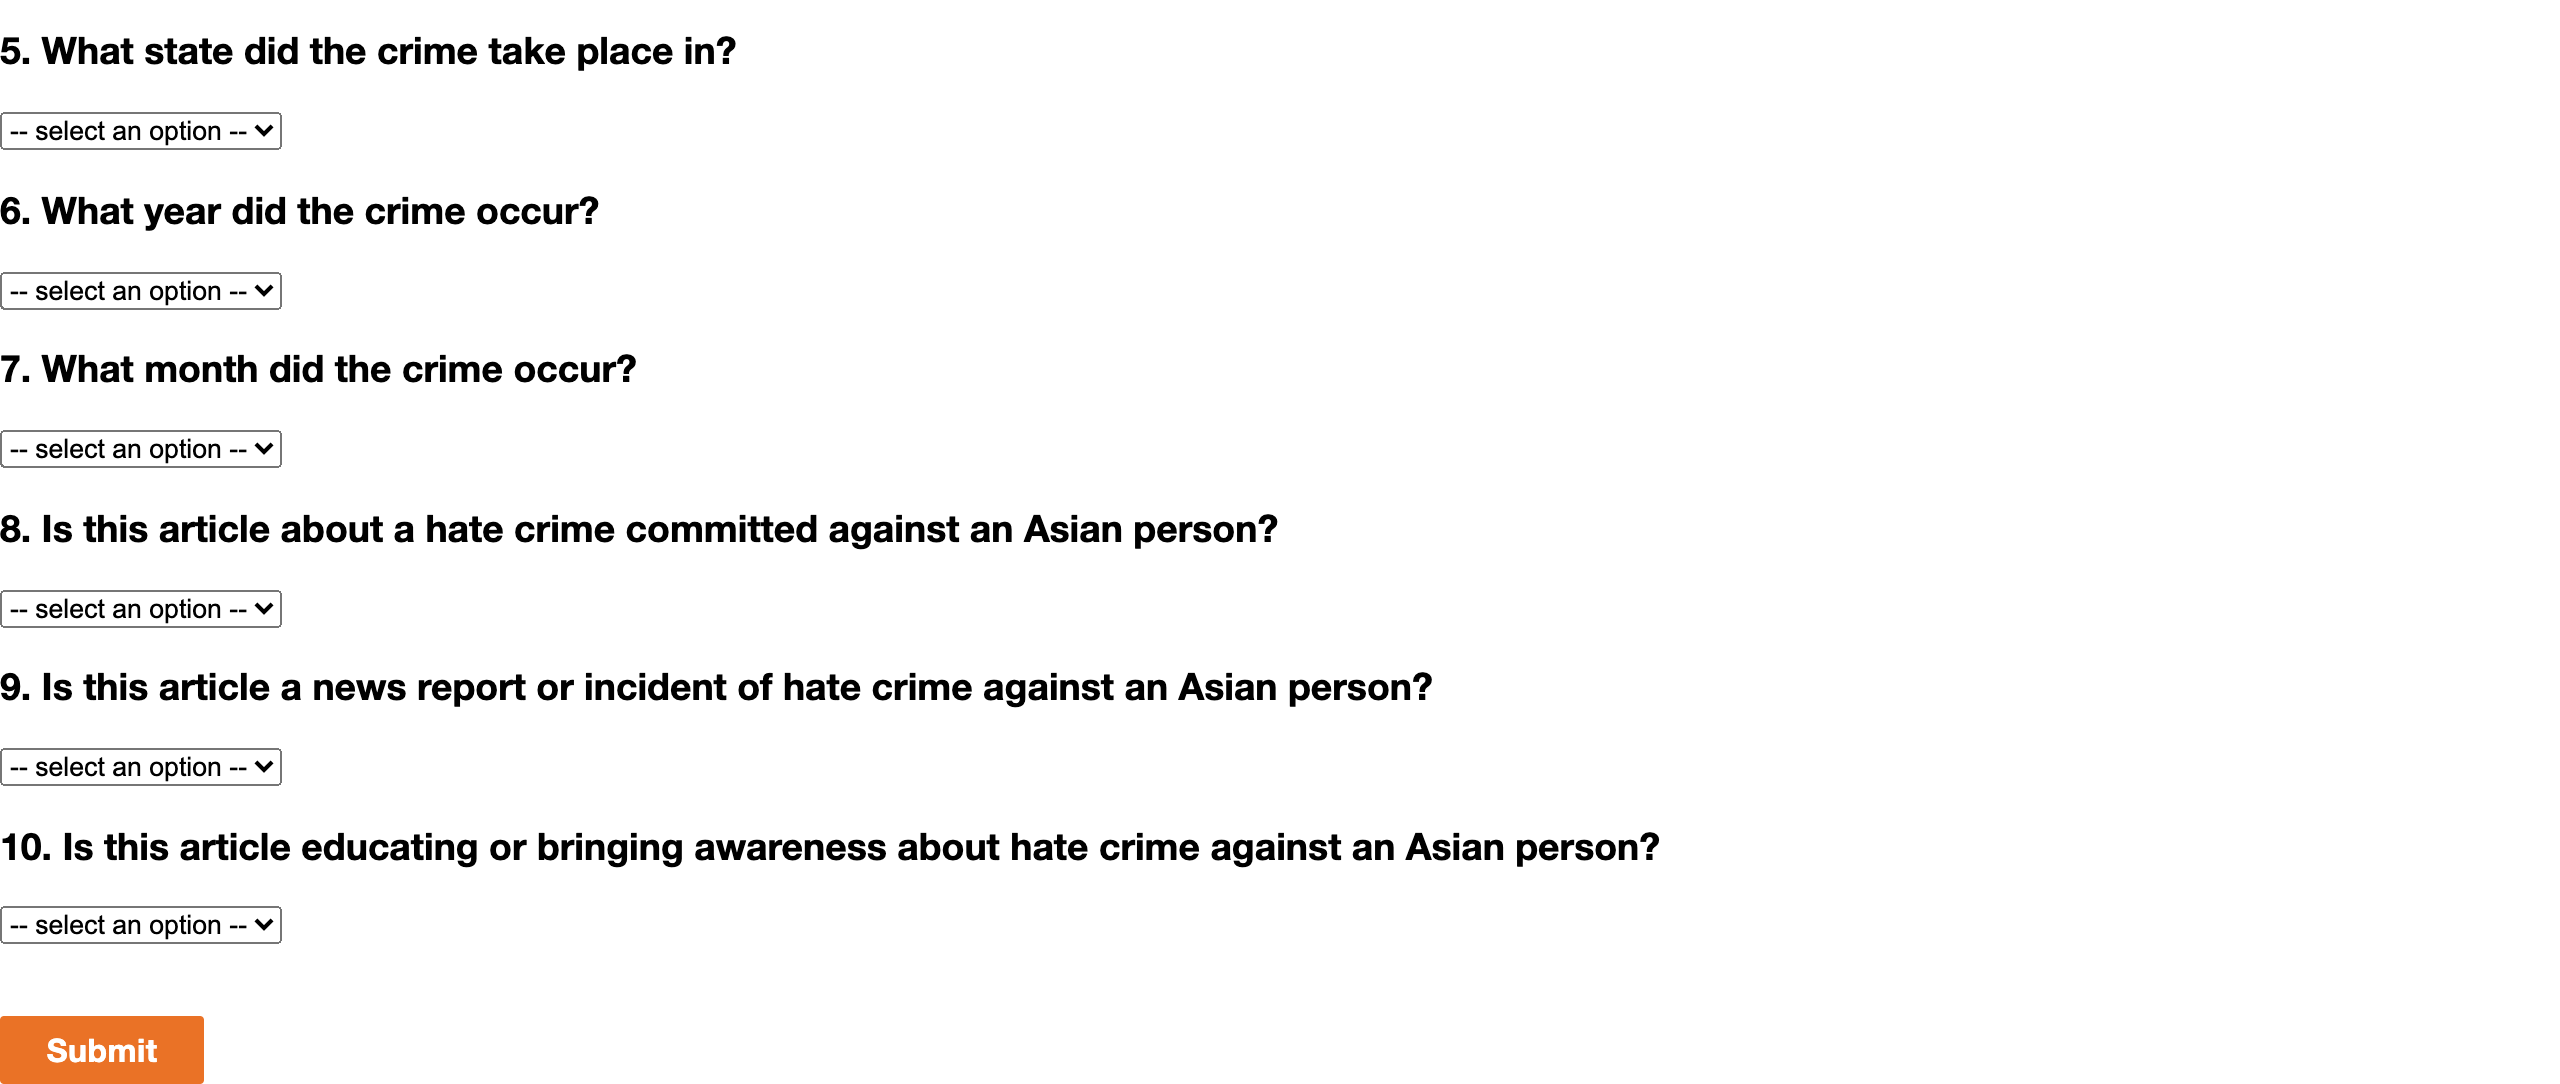
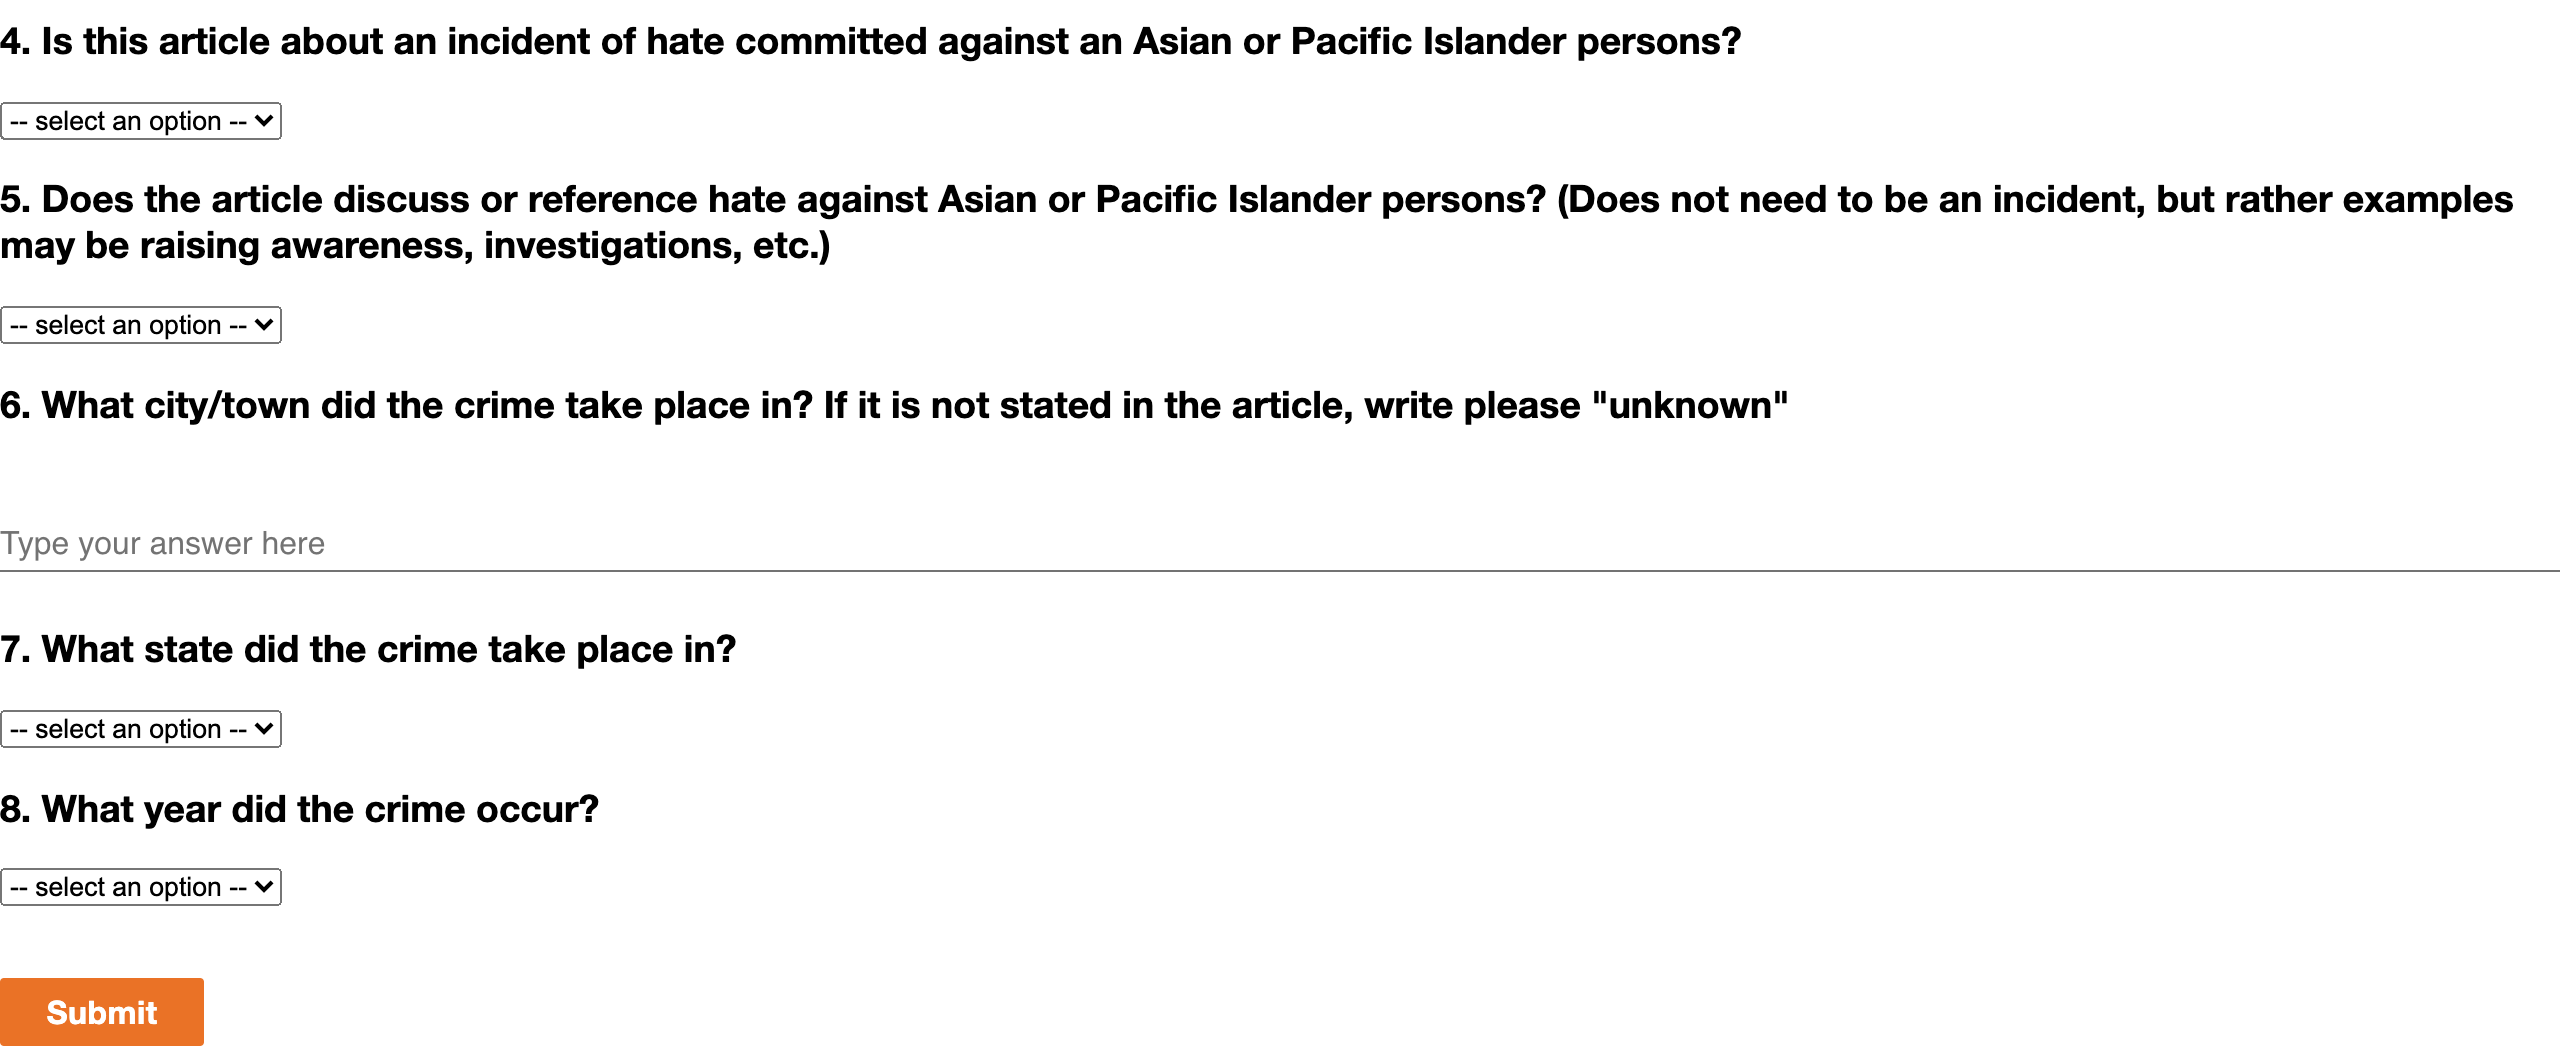
Updated questions and instructions for HIT

diff --git a/HIT designs/HITDesign.html b/HIT designs/HITDesign.html
@@ -16,12 +16,15 @@
         <a href="${url}" target="_blank">${url}</a>
 
         <br><br><br><br>
-        We define Asian and Pacific Islander as a person having origins in any of the original peoples of the Far East, Southeast Asia, the Indian subcontinent, or Pacific Islands including, for example, Cambodia, China, India, Japan, Korea, Malaysia, Pakistan, the Philippine Islands, Thailand, Vietnam, Hawaii, Guam, and Samoa,
+        Please keep the following definitions in mind when answering the questions below. 
         <br><br>
-        Please reference this website if you are still unsure about any of the racial categories:
-        <a href="https://www.census.gov/topics/population/race/about.html" target="_blank">https://www.census.gov/topics/population/race/about.html</a>
+        RACE: We define <b>Asian and Pacific Islander</b> as a person having origins in any of the original peoples of Far East, Southeast Asia, the Indian subcontinent, or Pacific Islands including, for example, Cambodia, China, India, Japan, Korea, Malaysia, Pakistan, the Philippine Islands, Thailand, Vietnam, Hawaii, Guam, and Samoa. Alaskan natives and other idigenous groups in North America are not included.
         <br><br>
-        For our purposes, we use the federal definition of a hate crime. A hate crime include crimes committed based on the victim’s perceived or actual race, color, religion, national origin, sexual orientation, gender, gender identity, or disability. A hate crime must involve a “crime” and it is often a violent crime, such as assault, murder, arson, vandalism, or threats to commit such crimes.
+        Please reference this website if you are still unsure about any of the racial categories. <a href="https://www.census.gov/topics/population/race/about.html" target="_blank">https://www.census.gov/topics/population/race/about.html</a>
+        <br><br>
+        INCIDENT OF HATE: For our purposes, we are defining an incident of hate as any bias, discriminatory or racist action(s) both verbal or physical taken against a person because of their perceived race. An incident of hate is definitely any hate crime but all incidents of hate are not necessarily hate crimes. 
+        <br><br>
+        We use the federal definition of a hate crime. A hate crime includes crimes committed based on the victim’s perceived or actual race, color, religion, national origin, sexual orientation, gender, gender identity, or disability. A hate crime must involve a “crime” and it is often a violent crime, such as assault, murder, arson, vandalism, or threats to commit such crimes.
 
     </p>
 
@@ -33,6 +36,7 @@
                     <option hidden disabled selected value> -- select an option -- </option>
                     <option value="true">Yes</option>
                     <option value="false">No</option>
+                    <option value="unsure">Unsure</option>
             </select>
     </div>
 
@@ -70,22 +74,44 @@
             </select>
     </div>
 
-
     <div id="q4">
-        <h3>4. What city/town did the crime take place in? If it is not stated in the article, write please "unknown"</h3>
+        <h3>4. Is this article about an incident of hate committed against an Asian or Pacific Islander persons?</h3>
+            <label for="asian_hate_crime"></label>
+
+            <select name="asian_hate_crime" id="asian_hate_crime" required>
+                <option hidden disabled selected value> -- select an option -- </option>
+                <option value="true">Yes</option>
+                <option value="false">No</option>
+            </select>
+    </div>
+
+
+    <div id="q5">
+        <h3>5. Does the article discuss or reference hate against Asian or Pacific Islander persons? (Does not need to be an incident, but rather examples may be raising awareness, investigations, etc.)</h3>
+        <label for="reference_hate"></label>
+
+        <select name="reference_hate" id="reference_hate" required>
+            <option hidden disabled selected value> -- select an option -- </option>
+            <option value="true">Yes</option>
+            <option value="false">No</option>
+        </select>
+    </div>
+
+    <div id="q6">
+        <h3>6. What city/town did the crime take place in? If it is not stated in the article, write please "unknown"</h3>
             <label for="town"></label>
             <crowd-input name="town" placeholder="Type your answer here" required></crowd-input>
     </div>
 
-    <div id="q5">
-        <h3>5. What state did the crime take place in? </h3>
+    <div id="q7">
+        <h3>7. What state did the crime take place in? </h3>
             <label for="state"></label>
 
             <select name="state" id="state" required>
-                  <option hidden disabled selected value> -- select an option -- </option>
-                  <option value="unknown">Unknown</option>
-                  <option value="not_us">Not in the US</option>
-                  <option value="AL">Alabama</option>
+                    <option hidden disabled selected value> -- select an option -- </option>
+                    <option value="unknown">Unknown</option>
+                    <option value="not_us">Not in the US</option>
+                    <option value="AL">Alabama</option>
                 	<option value="AK">Alaska</option>
                 	<option value="AZ">Arizona</option>
                 	<option value="AR">Arkansas</option>
@@ -139,12 +165,13 @@
             </select>
     </div>
 
-    <div id="q6">
-        <h3>6. What year did the crime occur?</h3>
+    <div id="q8">
+        <h3>8. What year did the crime occur?</h3>
             <label for="year"></label>
 
             <select name="year" id="year" required>
                     <option hidden disabled selected value> -- select an option -- </option>
+                    <option value="unknown">Unknown</option>
                     <option value="2021">2021</option>
                     <option value="2020">2020</option>
                     <option value="2019">2019</option>
@@ -263,63 +290,6 @@
                     <option value="1906">1906</option>
                     <option value="1905">1905</option>
             </select>
-    </div>
-
-    <div id="q7">
-        <h3>7. What month did the crime occur?</h3>
-            <label for="month"></label>
-
-            <select name="month" id="month" required>
-                    <option hidden disabled selected value> -- select an option -- </option>
-                    <option value="january">January</option>
-                    <option value="february">February</option>
-                    <option value="march">March</option>
-                    <option value="april">April</option>
-                    <option value="may">May</option>
-                    <option value="june">June</option>
-                    <option value="july">July</option>
-                    <option value="august">August</option>
-                    <option value="september">September</option>
-                    <option value="october">October</option>
-                    <option value="november">November</option>
-                    <option value="december">December</option>
-            </select>
-    </div>
-
-
-    <div id="q8">
-        <h3>8. Is this article about a hate crime committed against an Asian person?</h3>
-            <label for="asian_hate_crime"></label>
-
-            <select name="asian_hate_crime" id="asian_hate_crime" required>
-                <option hidden disabled selected value> -- select an option -- </option>
-                <option value="true">Yes</option>
-                <option value="false">No</option>
-            </select>
-    </div>
-
-    <div id="q9">
-        <h3>9. Is this article a news report or incident of hate crime against an Asian person?</h3>
-        <label for="news_report"></label>
-
-        <select name="news_report" id="news_report" required>
-            <option hidden disabled selected value> -- select an option -- </option>
-            <option value="true">Yes</option>
-            <option value="false">No</option>
-            <option value="unknown">Unknown</option>
-        </select>
-    </div>
-
-    <div id="q10">
-        <h3>10. Is this article educating or bringing awareness about hate crime against an Asian person?</h3>
-        <label for="education_awareness"></label>
-
-        <select name="education_awareness" id="education_awareness" required>
-            <option hidden disabled selected value> -- select an option -- </option>
-            <option value="true">Yes</option>
-            <option value="false">No</option>
-            <option value="unknown">Unknown</option>
-        </select>
     </div>
     <br><br>
 </crowd-form>
